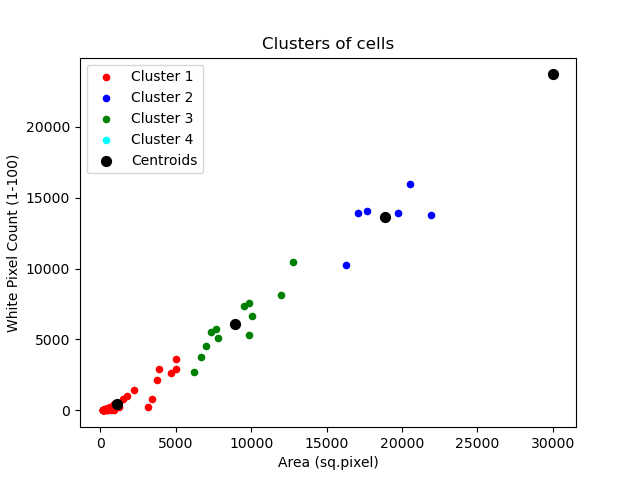
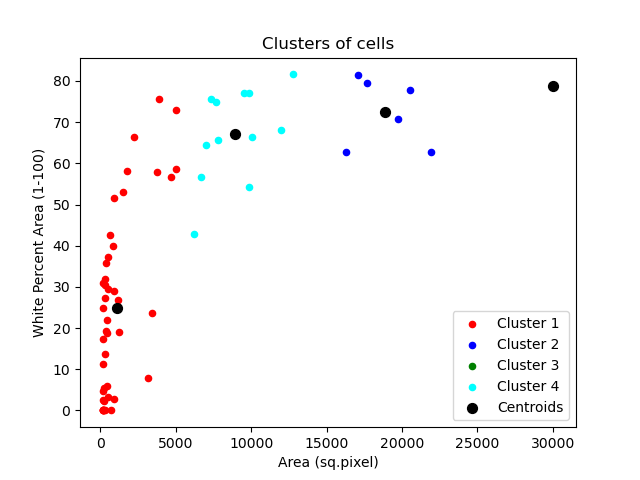
percentage update

diff --git a/src/p6.py b/src/p6.py
@@ -6,7 +6,7 @@ import numpy as np
 import matplotlib.pyplot as plt
 import math
 
-df = pd.read_csv('../data/example.csv')
+df = pd.read_csv('data/example.csv')
 
 
 
@@ -41,20 +41,20 @@ print(y_kmeans)
 
 # Visualising the clusters
 
-plt.scatter(X["Area"][y_kmeans == 0], X["White Pixel Count"][y_kmeans == 0], s = 20, c = 'red', label = 'Cluster 1')
-plt.scatter(X["Area"][y_kmeans == 1], X["White Pixel Count"][y_kmeans == 1], s = 20, c = 'blue', label = 'Cluster 2')
-plt.scatter(X["Area"][y_kmeans == 2], X["White Pixel Count"][y_kmeans == 2], s = 20, c = 'green', label = 'Cluster 3')
-plt.scatter(X["Area"][y_kmeans == 3], X["White Pixel Count"][y_kmeans == 3], s = 20, c = 'cyan', label = 'Cluster 4')
+plt.scatter(X["Area"][y_kmeans == 0], X["White Percent Area"][y_kmeans == 0], s = 20, c = 'red', label = 'Cluster 1')
+plt.scatter(X["Area"][y_kmeans == 1], X["White Percent Area"][y_kmeans == 1], s = 20, c = 'blue', label = 'Cluster 2')
+plt.scatter(X["Area"][y_kmeans == 2], X["White Percent Area"][y_kmeans == 2], s = 20, c = 'green', label = 'Cluster 3')
+plt.scatter(X["Area"][y_kmeans == 3], X["White Percent Area"][y_kmeans == 3], s = 20, c = 'cyan', label = 'Cluster 4')
 
 plt.scatter(kmeans.cluster_centers_[:, 0], kmeans.cluster_centers_[:, 1], s = 50, c = 'black', label = 'Centroids')
 
 plt.title('Clusters of cells')
 plt.xlabel('Area (sq.pixel)')
-plt.ylabel('White Pixel Count (1-100)')
+plt.ylabel('White Percent Area (1-100)')
 plt.legend()
 plt.show()
 
-plt.savefig('../figs/Cell_Cluster_Kmeans.png')
+plt.savefig('figs/Cell_Cluster_Kmeans.png')
 
 # Try this
 '''

diff --git a/src/p3.py b/src/p3.py
@@ -144,7 +144,7 @@ for i in range(r):
                             if M[cx + px, cy + py, 0] == 0:
                                 black += 1
             t += 1
-            cells.append([k, white, height, width, cx, cy, circle_area, black])
+            cells.append([k, round((white/k)*100, 2), height, width, cx, cy, circle_area, round((black/circle_area)*100, 2)])
             M[cx, cy, 0] = 0
             M[cx, cy, 1] = 0
             M[cx, cy, 2] = 255

diff --git a/src/p3_5.py b/src/p3_5.py
@@ -2,6 +2,6 @@
 import p3
 import pandas as pd
 
-df = pd.DataFrame(p3.cells, columns=['Area', 'White Pixel Count', 'Height', 'Width', 'Center_x', 'Center_y', 'Circle Area', 'Black Pixel Count'])
+df = pd.DataFrame(p3.cells, columns=['Area', 'White Percent Area', 'Height', 'Width', 'Center_x', 'Center_y', 'Circle Area', 'Black Percent Circle'])
 
-df.to_csv('data/example.csv')
+df.to_csv('../data/example.csv')
